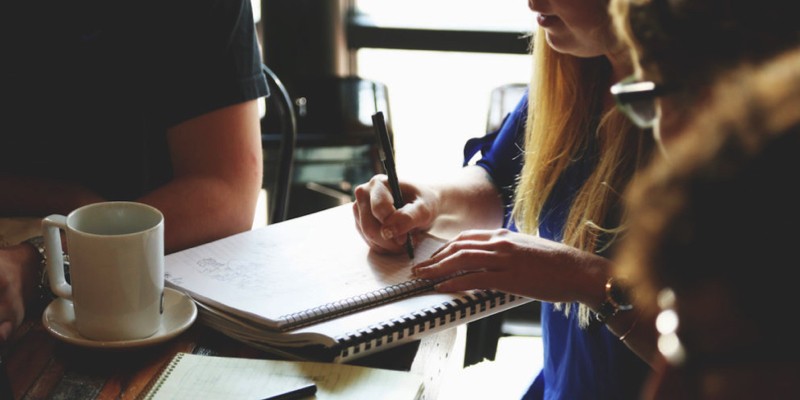
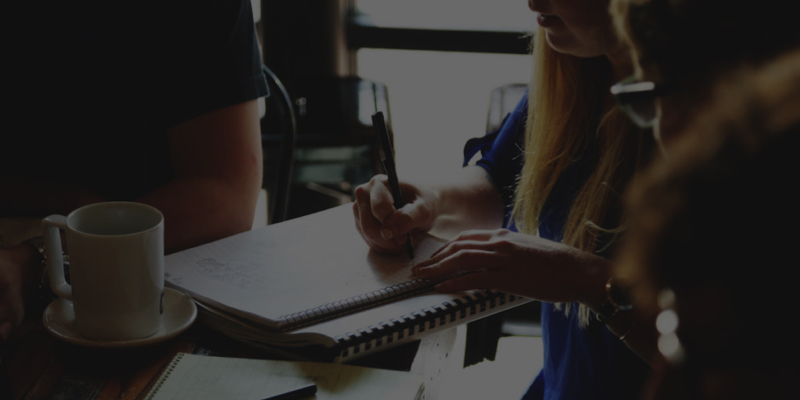
updated images
made images darker for more contrast. styled the carousel.

diff --git a/index.html b/index.html
@@ -6,6 +6,7 @@
 	<meta name="viewport" content="width=device-width, initial-scale=1">
 	<link rel="stylesheet" href="https://maxcdn.bootstrapcdn.com/bootstrap/3.3.7/css/bootstrap.min.css">
 	<link href="https://fonts.googleapis.com/css?family=Satisfy" rel="stylesheet">
+	<link href="https://fonts.googleapis.com/css?family=Raleway" rel="stylesheet">
 	<script src="https://ajax.googleapis.com/ajax/libs/jquery/3.1.1/jquery.min.js"></script>
   	<script src="https://maxcdn.bootstrapcdn.com/bootstrap/3.3.7/js/bootstrap.min.js"></script>
 	<link rel="stylesheet" type="text/css"
@@ -47,7 +48,7 @@
 			<div class="carousel-inner" role="listbox">
 				<div class="item active">
 					<a href="#">
-					<img src="images/studyimage9.jpg" alt="Testimonial"></a>
+					<img src="images/studyimage9.jpg" alt="Testimonial" class="carousel-image"></a>
 					<div class="carousel-caption" id="welcome">
 						<h3>Welcome to ExcelTutoring</h3>
 						<p>A 5* tutoring business run by me, Davina</p>
@@ -56,9 +57,9 @@
 			<!-- slide 2 -->
 				<div class="item">
 					<a href="#">
-					<img src="images/studyimage7.jpg" alt="Testimonial"></a>
+					<img src="images/studyimage7.jpg" alt="Testimonial" class="carousel-image"></a>
 					<div class="carousel-caption testimonial">
-						<blockquote><h3>Testimonial</h3>
+						<blockquote>
 						<p>Davina responded very quickly, was flexible with times and is getting on very well with my daughter. She is organised, punctual and seems to really know her stuff. My daughter really likes her and says that her work is improving.</p>
 						<footer> Rosa </footer></blockquote>
 					</div>
@@ -66,17 +67,17 @@
 			<!--slide 3-->
 				<div class="item">
 					<a href="#">
-					<img src="images/studyimage3.jpg" alt="Testimonial"></a>
+					<img src="images/studyimage3.jpg" alt="Testimonial" class="carousel-image"></a>
 					<div class="carousel-caption testimonial">
-						<blockquote><h3>Testimonial 2</h3>
-						<p>I would highly recommend Davina as a tutor. She works diligently, prepares her lessons beforehand, is very systematic and knowledgeable. I have seen a tremendous improvement in both my kids` performance (all three sciences) in such a short span of time. A big thank you to Davina!!</p>
+						<blockquote>
+						<p>I would highly recommend Davina as a tutor. She works diligently, prepares her lessons beforehand, is very systematic and knowledgeable. I have seen a tremendous improvement in both my kids' performance (all three sciences) in such a short span of time. A big thank you to Davina!</p>
 						<footer> Anmol </footer></blockquote>
 					</div>
 				</div>
 			<!-- slide 4 -->
 				<div class="item">
 					<a href="#">
-					<img src="images/studyimage1.jpg" alt="Testimonial"></a>
+					<img src="images/studyimage1.jpg" alt="Testimonial" class="carousel-image"></a>
 					<div class="carousel-caption" id="contact">
 						<h3> Get in contact </h3>
 						<p>if you are interested in working together!</p>

diff --git a/css/main.css b/css/main.css
@@ -14,6 +14,7 @@
     text-decoration: none;
     font-size: 20px;
     font-family: 'Satisfy', cursive;
+    height: 10%;
 }
 
 /* Change the color of links on hover */
@@ -34,11 +35,12 @@ body{
 }
 
 .carousel-inner > .item > img, .carousel-inner > .item > a > img {
-display: block;
-height: auto;
-max-width: 100%;
-line-height: 1;
-width: 100%;
+    display: block;
+    height: auto;
+    max-width: 100%;
+    min-width: 100%;
+    line-height: 1;
+    width: 100%;
 }
 .item {
     -webkit-transform-style: preserve-3d;
@@ -48,17 +50,35 @@ width: 100%;
 
 .carousel-image {
     min-width: 100%;
+    max-width: 100%;
+}
+
+#myCarousel h3, blockquote {
+  font-family: 'Satisfy', cursive;
+  font-size: 40px;
+}
+
+#myCarousel p {
+  font-family: 'Raleway', sans-serif;
+  font-size: 30px;
+}
+
+.carousel-caption {
+    float: center;
+    margin: auto;
+    text-align: center;
+    display: block;
 }
 
 blockquote {
     text-align: center;
     vertical-align: middle;
     border: none;
-    border-top: 2px solid #38b6cd;
-    border-bottom: 2px solid #38b6cd;
+    border-top: 2px solid #ffb300;
+    border-bottom: 2px solid #ffb300;
 }
 blockquote footer {
-    color: #38b6cd;
+    color: #ffb300;
 }
 .testimonial {
     top:50%;
@@ -68,14 +88,14 @@ blockquote footer {
 #contact-button {
     vertical-align: middle;
 }
-#welcome {
+/*#welcome {
     vertical-align: bottom;
 }
 #welcome p{
     font-size:20px;
 }
 #welcome h3{
-    font-size: 24px;
+    font-size: 24px;*/
 }
 #contact p{
     font-size:20px;

diff --git a/css/aboutme.css b/css/aboutme.css
@@ -82,7 +82,7 @@ ul {
   color: #333;
 }
 
-img {
+.face {
   border-radius: 100%;
 }
 
